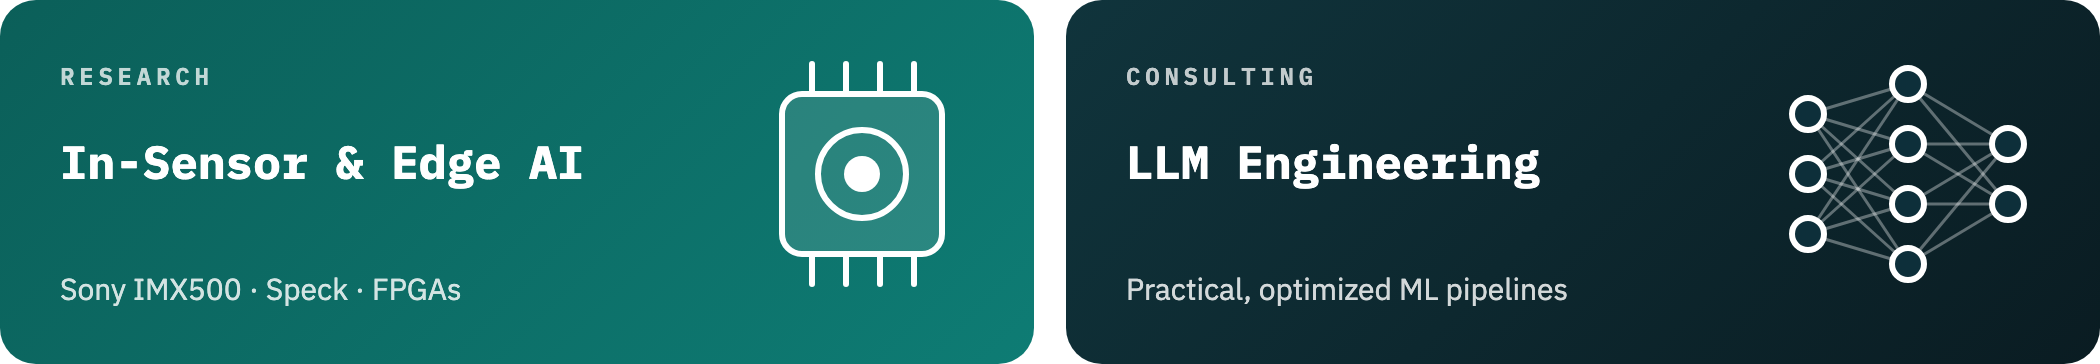
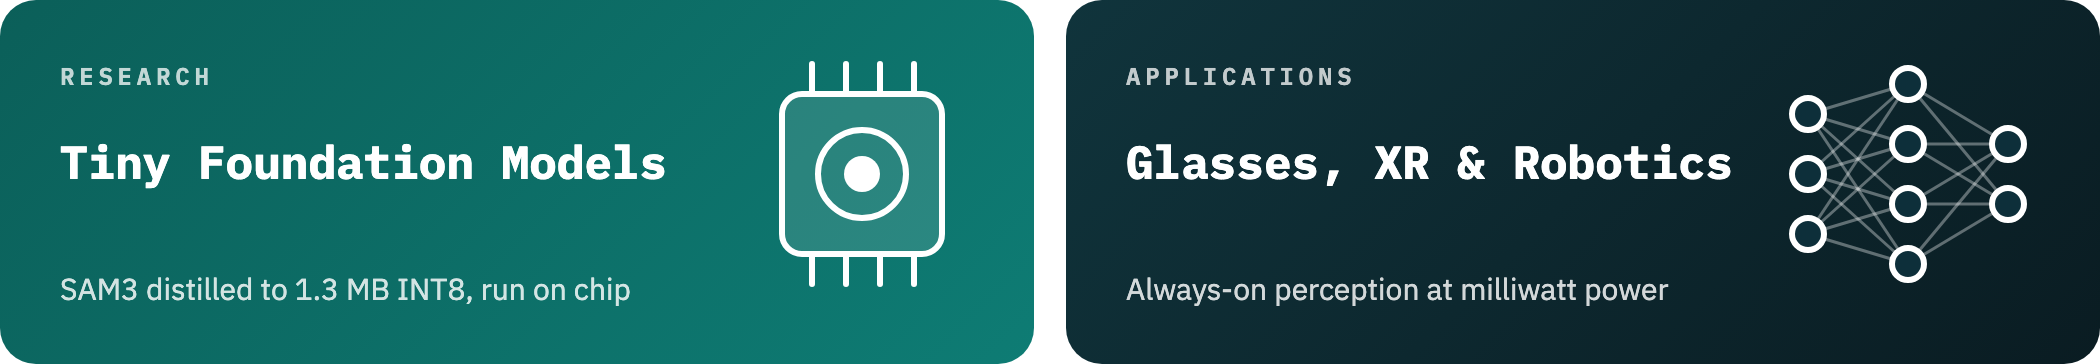
Animate hero as event-camera GIF and refocus profile on on-device ML

diff --git a/README.md b/README.md
@@ -1,8 +1,8 @@
 <a href="https://pietrobonazzi.com">
   <picture>
-    <source media="(prefers-color-scheme: dark)" srcset="./assets/hero-dark.png" />
-    <source media="(prefers-color-scheme: light)" srcset="./assets/hero-light.png" />
-    <img alt="Pietro Bonazzi — Dr. sc. candidate at ETH Zürich · Efficient ML, in-sensor vision, real-time perception" src="./assets/hero-light.png" width="100%" />
+    <source media="(prefers-color-scheme: dark)" srcset="./assets/hero-dark.gif" />
+    <source media="(prefers-color-scheme: light)" srcset="./assets/hero-light.gif" />
+    <img alt="Pietro Bonazzi — Dr. sc. candidate at ETH Zürich · distilling foundation models into always-on, private on-device perception" src="./assets/hero-light.gif" width="100%" />
   </picture>
 </a>
 
@@ -10,7 +10,7 @@
   <picture>
     <source media="(prefers-color-scheme: dark)" srcset="./assets/bento-dark.png" />
     <source media="(prefers-color-scheme: light)" srcset="./assets/bento-light.png" />
-    <img alt="In-Sensor &amp; Edge AI · LLM Engineering" src="./assets/bento-light.png" width="100%" />
+    <img alt="Tiny Foundation Models · Glasses, XR &amp; Robotics" src="./assets/bento-light.png" width="100%" />
   </picture>
 </a>
 
@@ -18,9 +18,10 @@
 
 | Project | Venue | What it does |
 |---|---|---|
-| [**PicoSAM3**](https://github.com/pbonazzi/picosam3) | SENSORS 2025 | Segmentation models running in-sensor on the Sony IMX500 |
-| [**Eva**](https://github.com/pbonazzi/eva) | CVPR 2025 | Event-based obstacle avoidance on the AMD Xilinx DPU FPGA |
-| [**Retina**](https://github.com/pbonazzi/retina) | CVPR 2024 | Eye tracking on the SynSense Speck chip |
-| [**TinyTracker**](https://github.com/pbonazzi/tinytracker) | SENSORS 2023 | Fully quantized 2D gaze estimation on IMX500, Coral Dev Micro & Spresense |
+| [**PicoSAM3**](https://github.com/pbonazzi/picosam3) | IEEE Sensors Journal 2026 | Promptable segmentation distilled from SAM3 — 1.3 MB INT8, 65.3% COCO mIoU, 11.8 ms inside the image sensor |
+| [**FTerViT**](https://arxiv.org/abs/2605.21171) | NeurIPS 2026 | Fully ternary Vision Transformer — 77.5% ImageNet top-1 at 5.8 MB (15× smaller), runs on a $10 MCU |
+| [**TinyML Hits the Memory Wall**](https://arxiv.org/abs/2611.03392) | arXiv 2026 | Benchmark of ten sub-watt accelerators: latency follows bytes moved, not MACs |
+| [**TinyGLASS**](https://arxiv.org/abs/2603.16451) | AICAS 2026 | Self-supervised anomaly detection in-sensor — 8.6× smaller than GLASS, 20 FPS |
+| [**Retina**](https://github.com/pbonazzi/retina) | CVPR Workshops 2024 | Event-camera eye tracking with 63k parameters at 2.89 mW |
 
 <sub>[pietrobonazzi.com](https://pietrobonazzi.com) · [@pebonazzi](https://x.com/pebonazzi)</sub>
